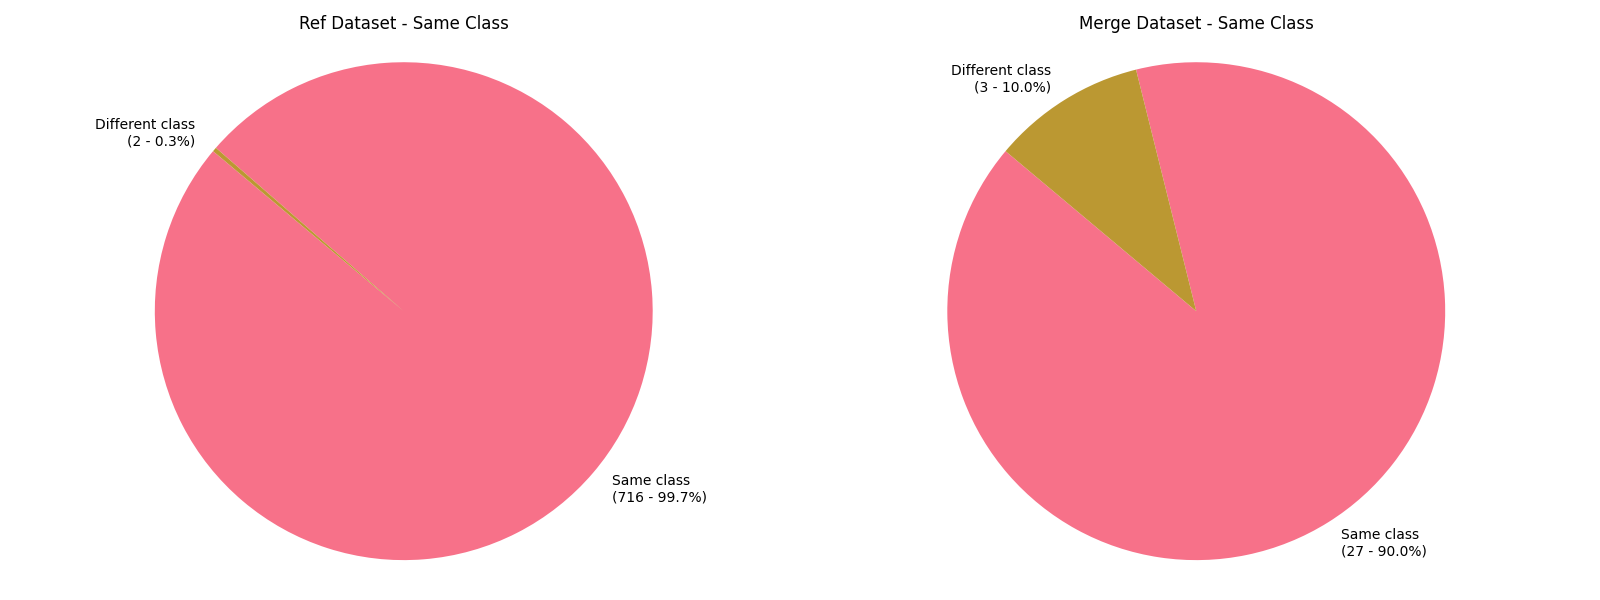
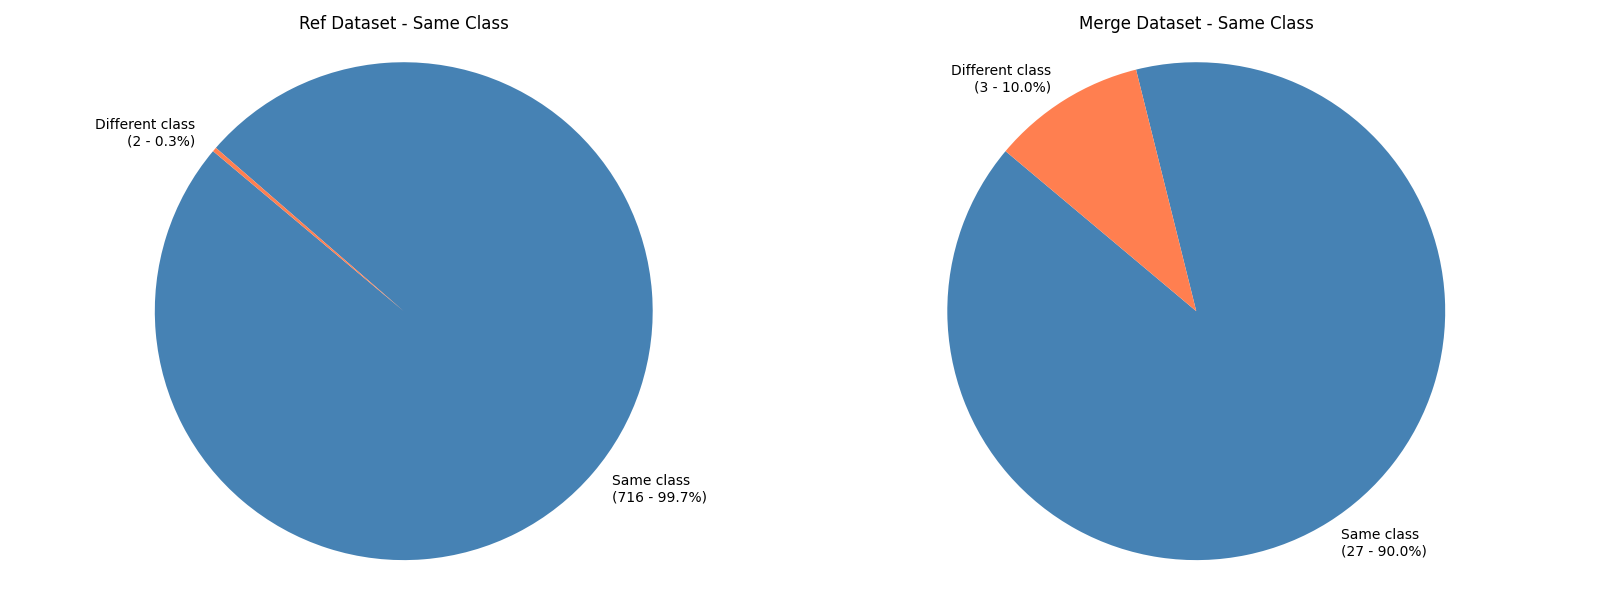
fixing path of generated images

diff --git a/OA-analysis-report/visualization.py b/OA-analysis-report/visualization.py
@@ -321,8 +321,18 @@ class Visualizer:
         """Plot two pie charts side by side"""
         fig, (ax1, ax2) = plt.subplots(1, 2, figsize=(16, 6))
         
-        self._plot_pie_on_axis(ax1, data1, title1)
-        self._plot_pie_on_axis(ax2, data2, title2)
+        # Use steelblue for first dataset, coral for second
+        data1_colored = data1.copy()
+        data2_colored = data2.copy()
+        
+        # If colors not in data, use default palette for each dataset
+        if 'colors' not in data1_colored or data1_colored['colors'] is None:
+            data1_colored['colors'] = ['steelblue'] * len(data1_colored['labels'])
+        if 'colors' not in data2_colored or data2_colored['colors'] is None:
+            data2_colored['colors'] = ['coral'] * len(data2_colored['labels'])
+        
+        self._plot_pie_on_axis(ax1, data1_colored, title1)
+        self._plot_pie_on_axis(ax2, data2_colored, title2)
         
         plt.tight_layout()
         plt.savefig(filename)

diff --git a/OA-analysis-report/scenarioAnalysis/scenarioAnalysis.py b/OA-analysis-report/scenarioAnalysis/scenarioAnalysis.py
@@ -253,10 +253,13 @@ class ScenarioAnalyzer:
         self._print_scenario_stats(conflict_df2, scenarioJAR_df2, title=label2)
         
         if plot:
+            # Set output_dir to data1 directory for saving comparison plots
+            self.output_dir = output_dir
             self._create_compare_plots(conflict_df1, conflict_df2, label1, label2, output_dir)
 
     def _create_compare_plots(self, conflict_df1, conflict_df2, label1, label2, output_dir):
         """Create comparison plots for two datasets"""
+        self.output_dir = output_dir
         self._create_all_plots(
             conflict_df1, None,
             compare_conflict_df=conflict_df2,

diff --git a/OA-analysis-report/conflictAnalysis/conflictAnalysis.py b/OA-analysis-report/conflictAnalysis/conflictAnalysis.py
@@ -123,7 +123,8 @@ class ConflictAnalyzer:
         return {
             'values': values,
             'labels': labels,
-            'percentages': percentages
+            'percentages': percentages,
+            'colors': ['steelblue', 'coral']
         }
 
     def _create_plots(self, df):
